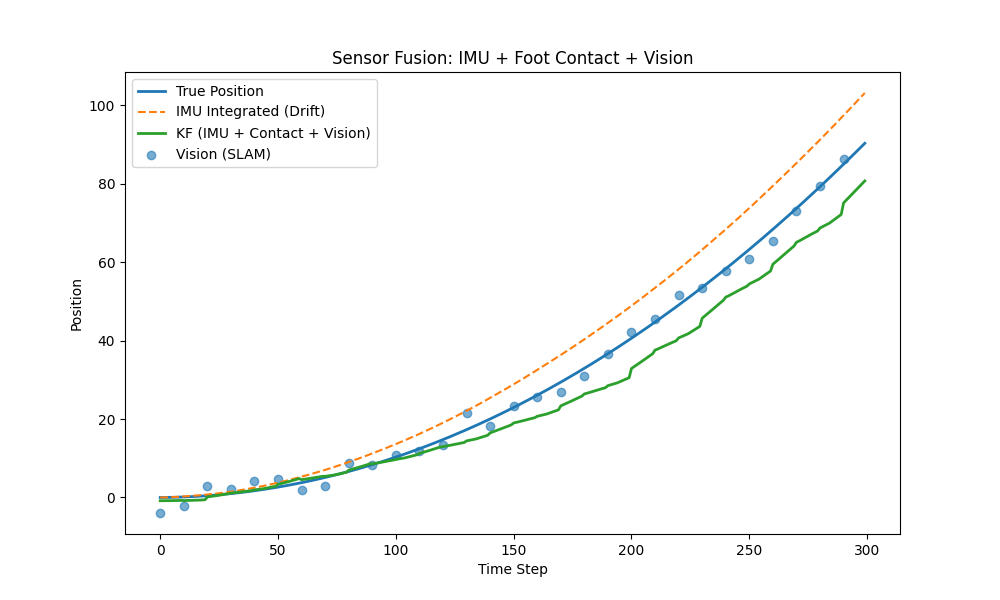
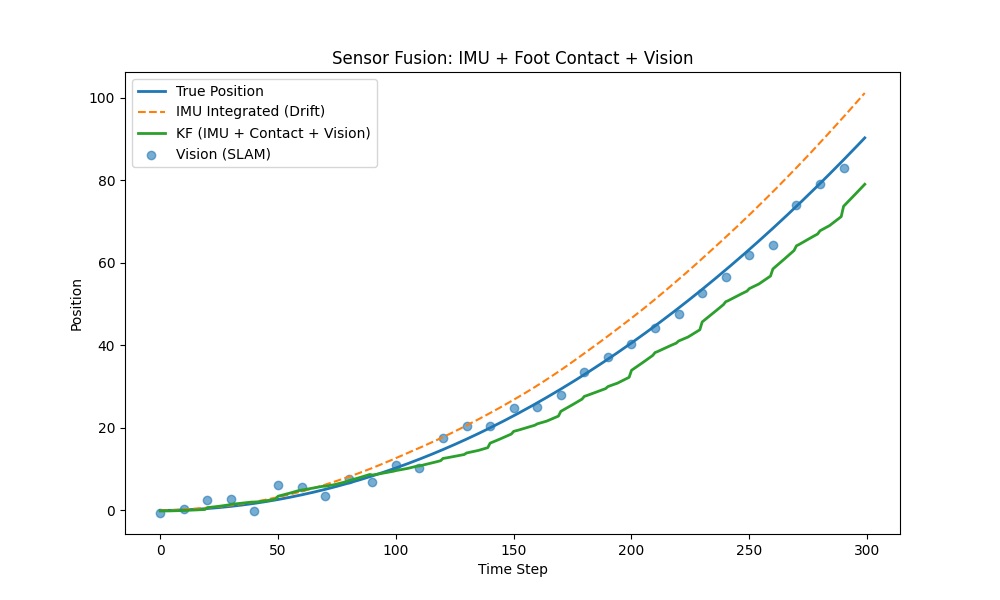
feat: sensor fusion using just foot contacts

diff --git a/linear_KF/IMU_footcontact.py b/linear_KF/IMU_footcontact.py
@@ -1,0 +1,84 @@
+import numpy as np
+import matplotlib.pyplot as plt
+
+dt = 0.1
+steps = 300
+
+true_pos = 0
+true_vel = 0
+true_acc = 0.2
+
+acc_noise_std = 0.2
+
+# State vector: [position, velocity]
+x = np.array([[0],   
+              [0]])  
+
+F = np.array([[1, dt],
+              [0, 1]])
+
+B = np.array([[0.5 * dt**2],
+              [dt]])
+
+Q = np.array([[0.05, 0],
+              [0, 0.05]])
+
+P = np.eye(2)
+
+true_positions = []
+imu_positions = []
+kf_positions = []
+
+imu_pos = 0
+imu_vel = 0
+
+for step in range(steps):
+    # --- 1. SIMULATE TRUE STATE ---
+    true_vel += true_acc * dt
+    true_pos += true_vel * dt
+    true_positions.append(true_pos)
+
+    # --- 2. SIMULATE IMU DRIFT ---
+    a_meas = true_acc + np.random.randn() * acc_noise_std
+    imu_vel += a_meas * dt
+    imu_pos += imu_vel * dt
+    imu_positions.append(imu_pos)
+
+    # Simulate stance (foot on ground) vs swing (foot in air)
+    contact = (step % 30) < 15  
+
+    # --- 3. KALMAN FILTER PREDICT STEP (IMU) ---
+    x = F @ x + B * a_meas
+    P = F @ P @ F.T + Q
+
+    # --- 4. KALMAN FILTER UPDATE STEP (FOOT CONTACT/KINEMATICS) ---
+    # Only correct the estimate when the foot is firmly on the ground
+    if contact and len(kf_positions) > 0:
+        # In a real robot, this zc comes from Forward Kinematics
+        zc = np.array([[kf_positions[-1]]]) 
+        Hc = np.array([[1, 0]])
+        Rc = np.array([[0.5]])  # Confidence in our foot placement
+
+        y = zc - (Hc @ x)
+        S = Hc @ P @ Hc.T + Rc
+        K = P @ Hc.T @ np.linalg.inv(S)
+
+        x = x + K @ y
+        P = (np.eye(2) - K @ Hc) @ P
+
+    kf_positions.append(x[0, 0])
+
+# --- 5. PLOTTING ---
+plt.figure(figsize=(10, 6))
+
+plt.plot(true_positions, label="True Position", linewidth=2)
+plt.plot(imu_positions, label="IMU Integrated (Drift)", linestyle="dashed")
+plt.plot(kf_positions, label="KF (IMU + Foot Contact)", linewidth=2)
+
+plt.legend()
+plt.title("Proprioceptive Sensor Fusion: IMU + Foot Contact")
+plt.xlabel("Time Step")
+plt.ylabel("Position")
+
+plt.savefig("fusion_proprioception_only.png")
+print("Saved fusion_proprioception_only.png")